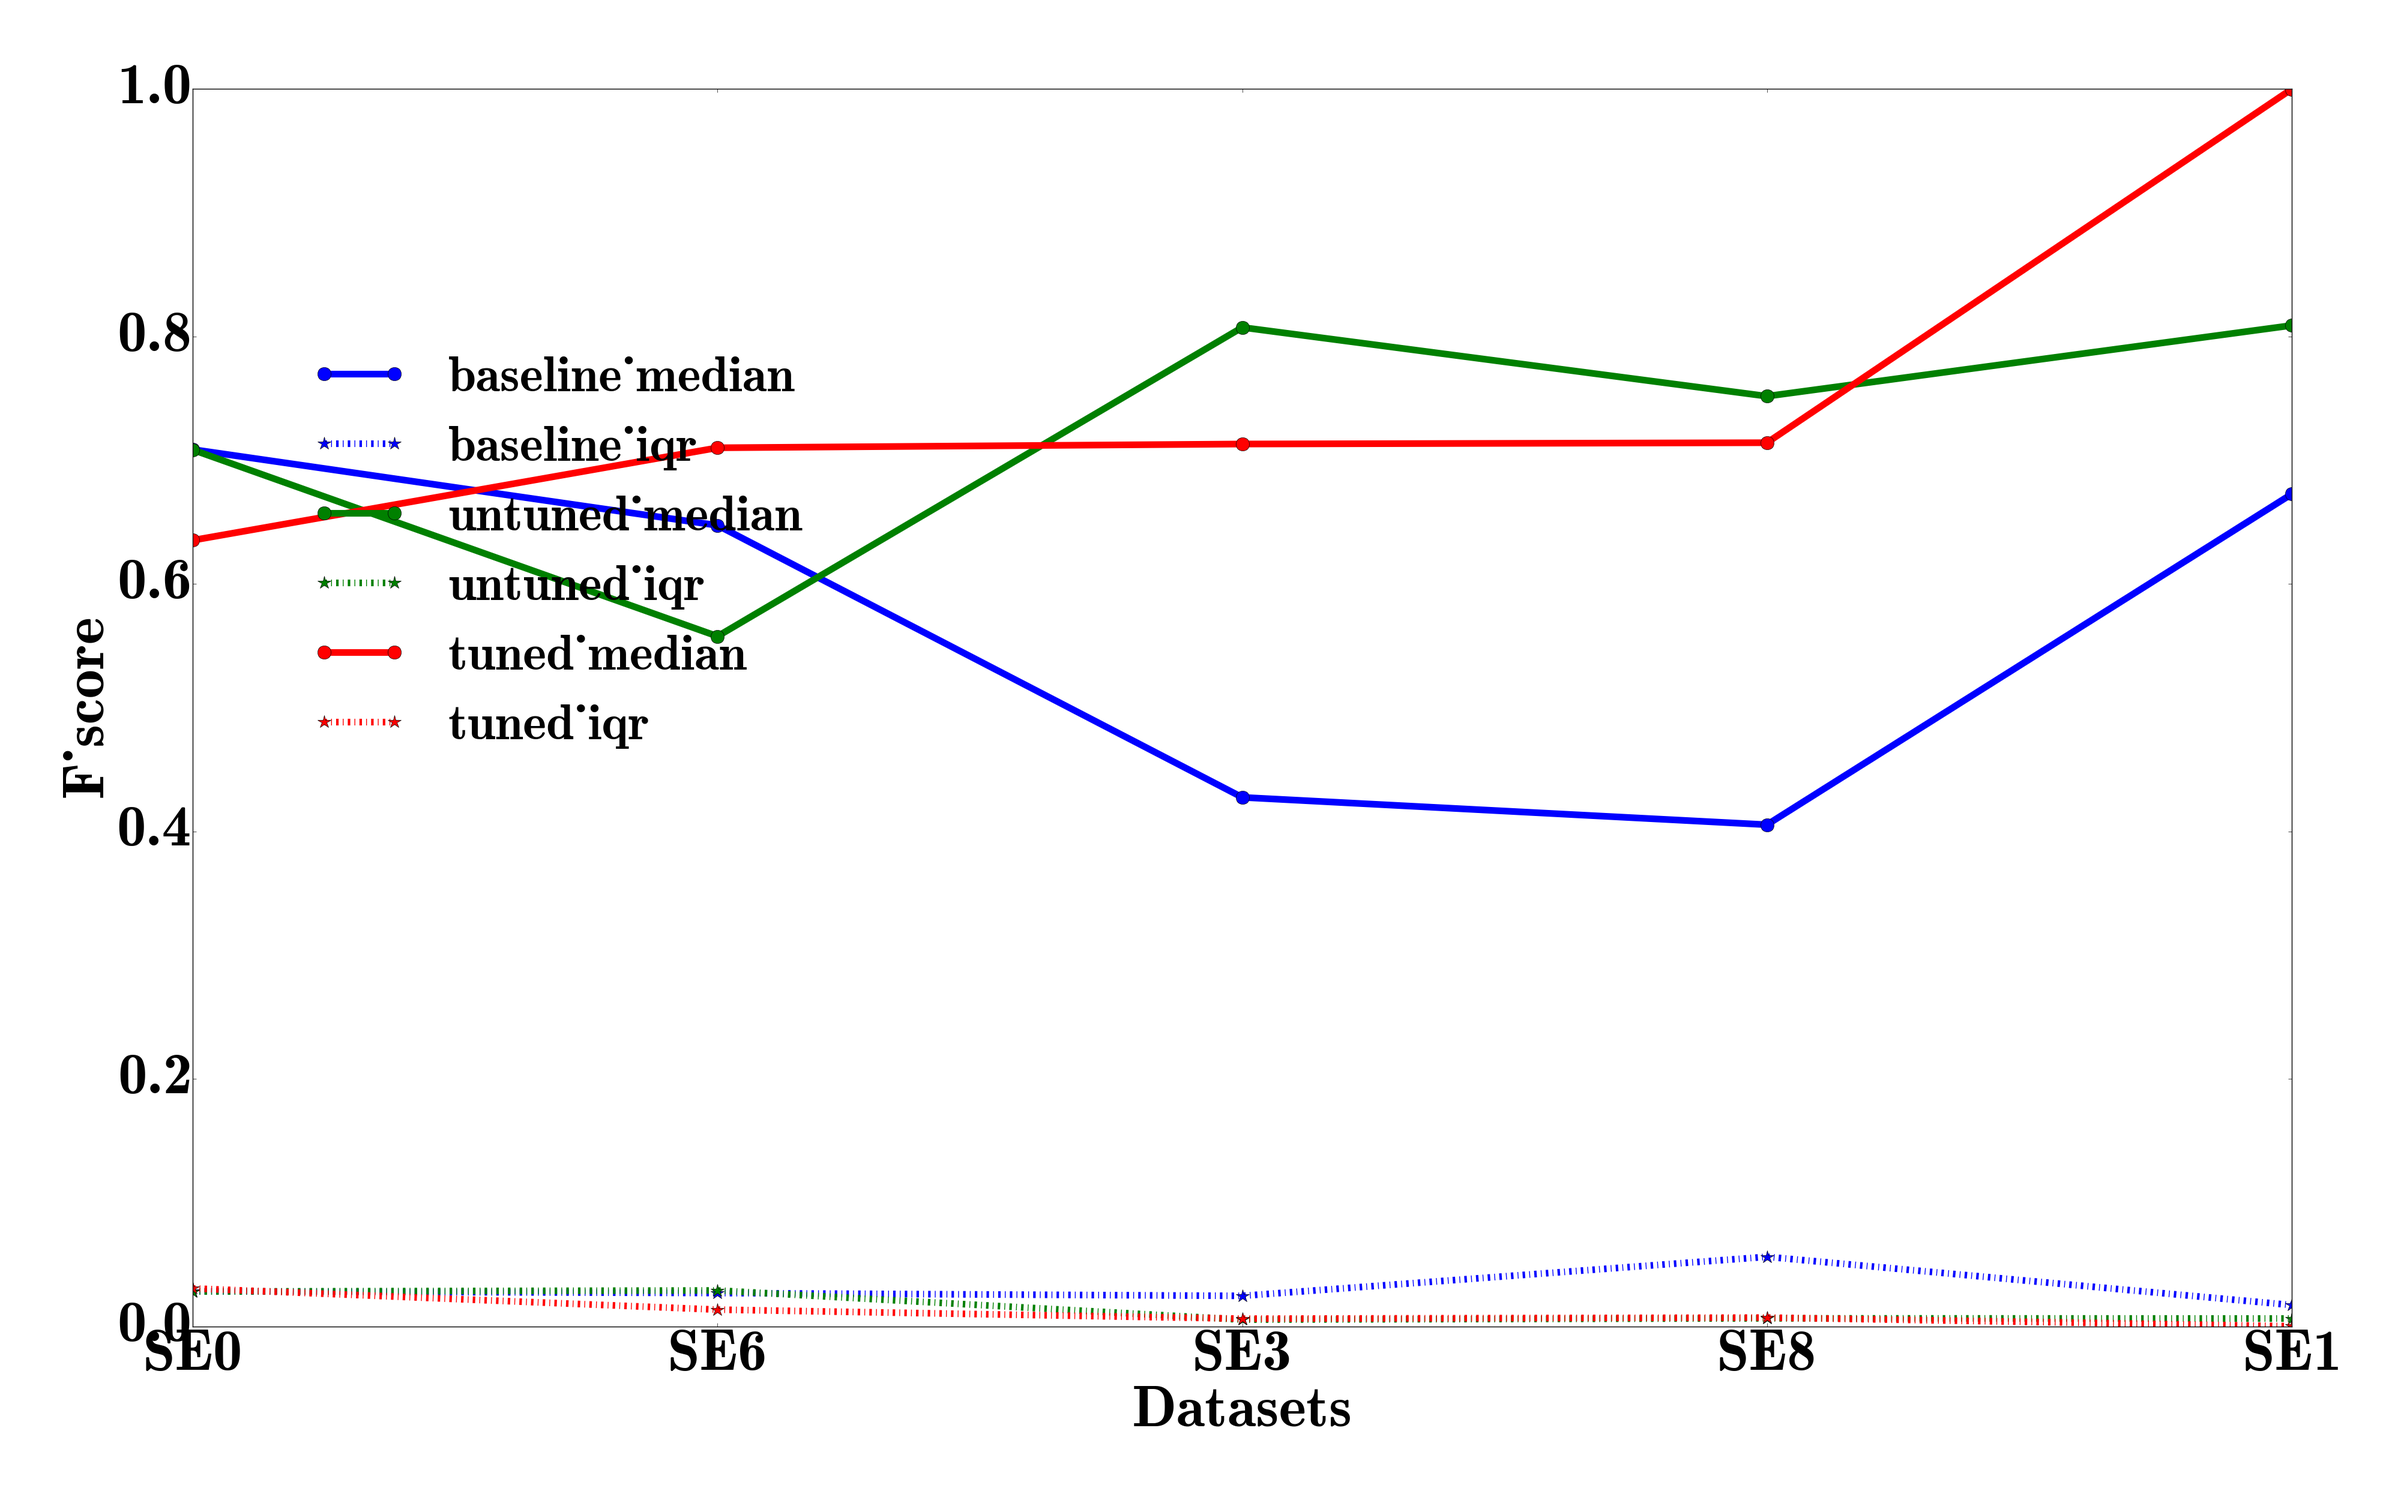
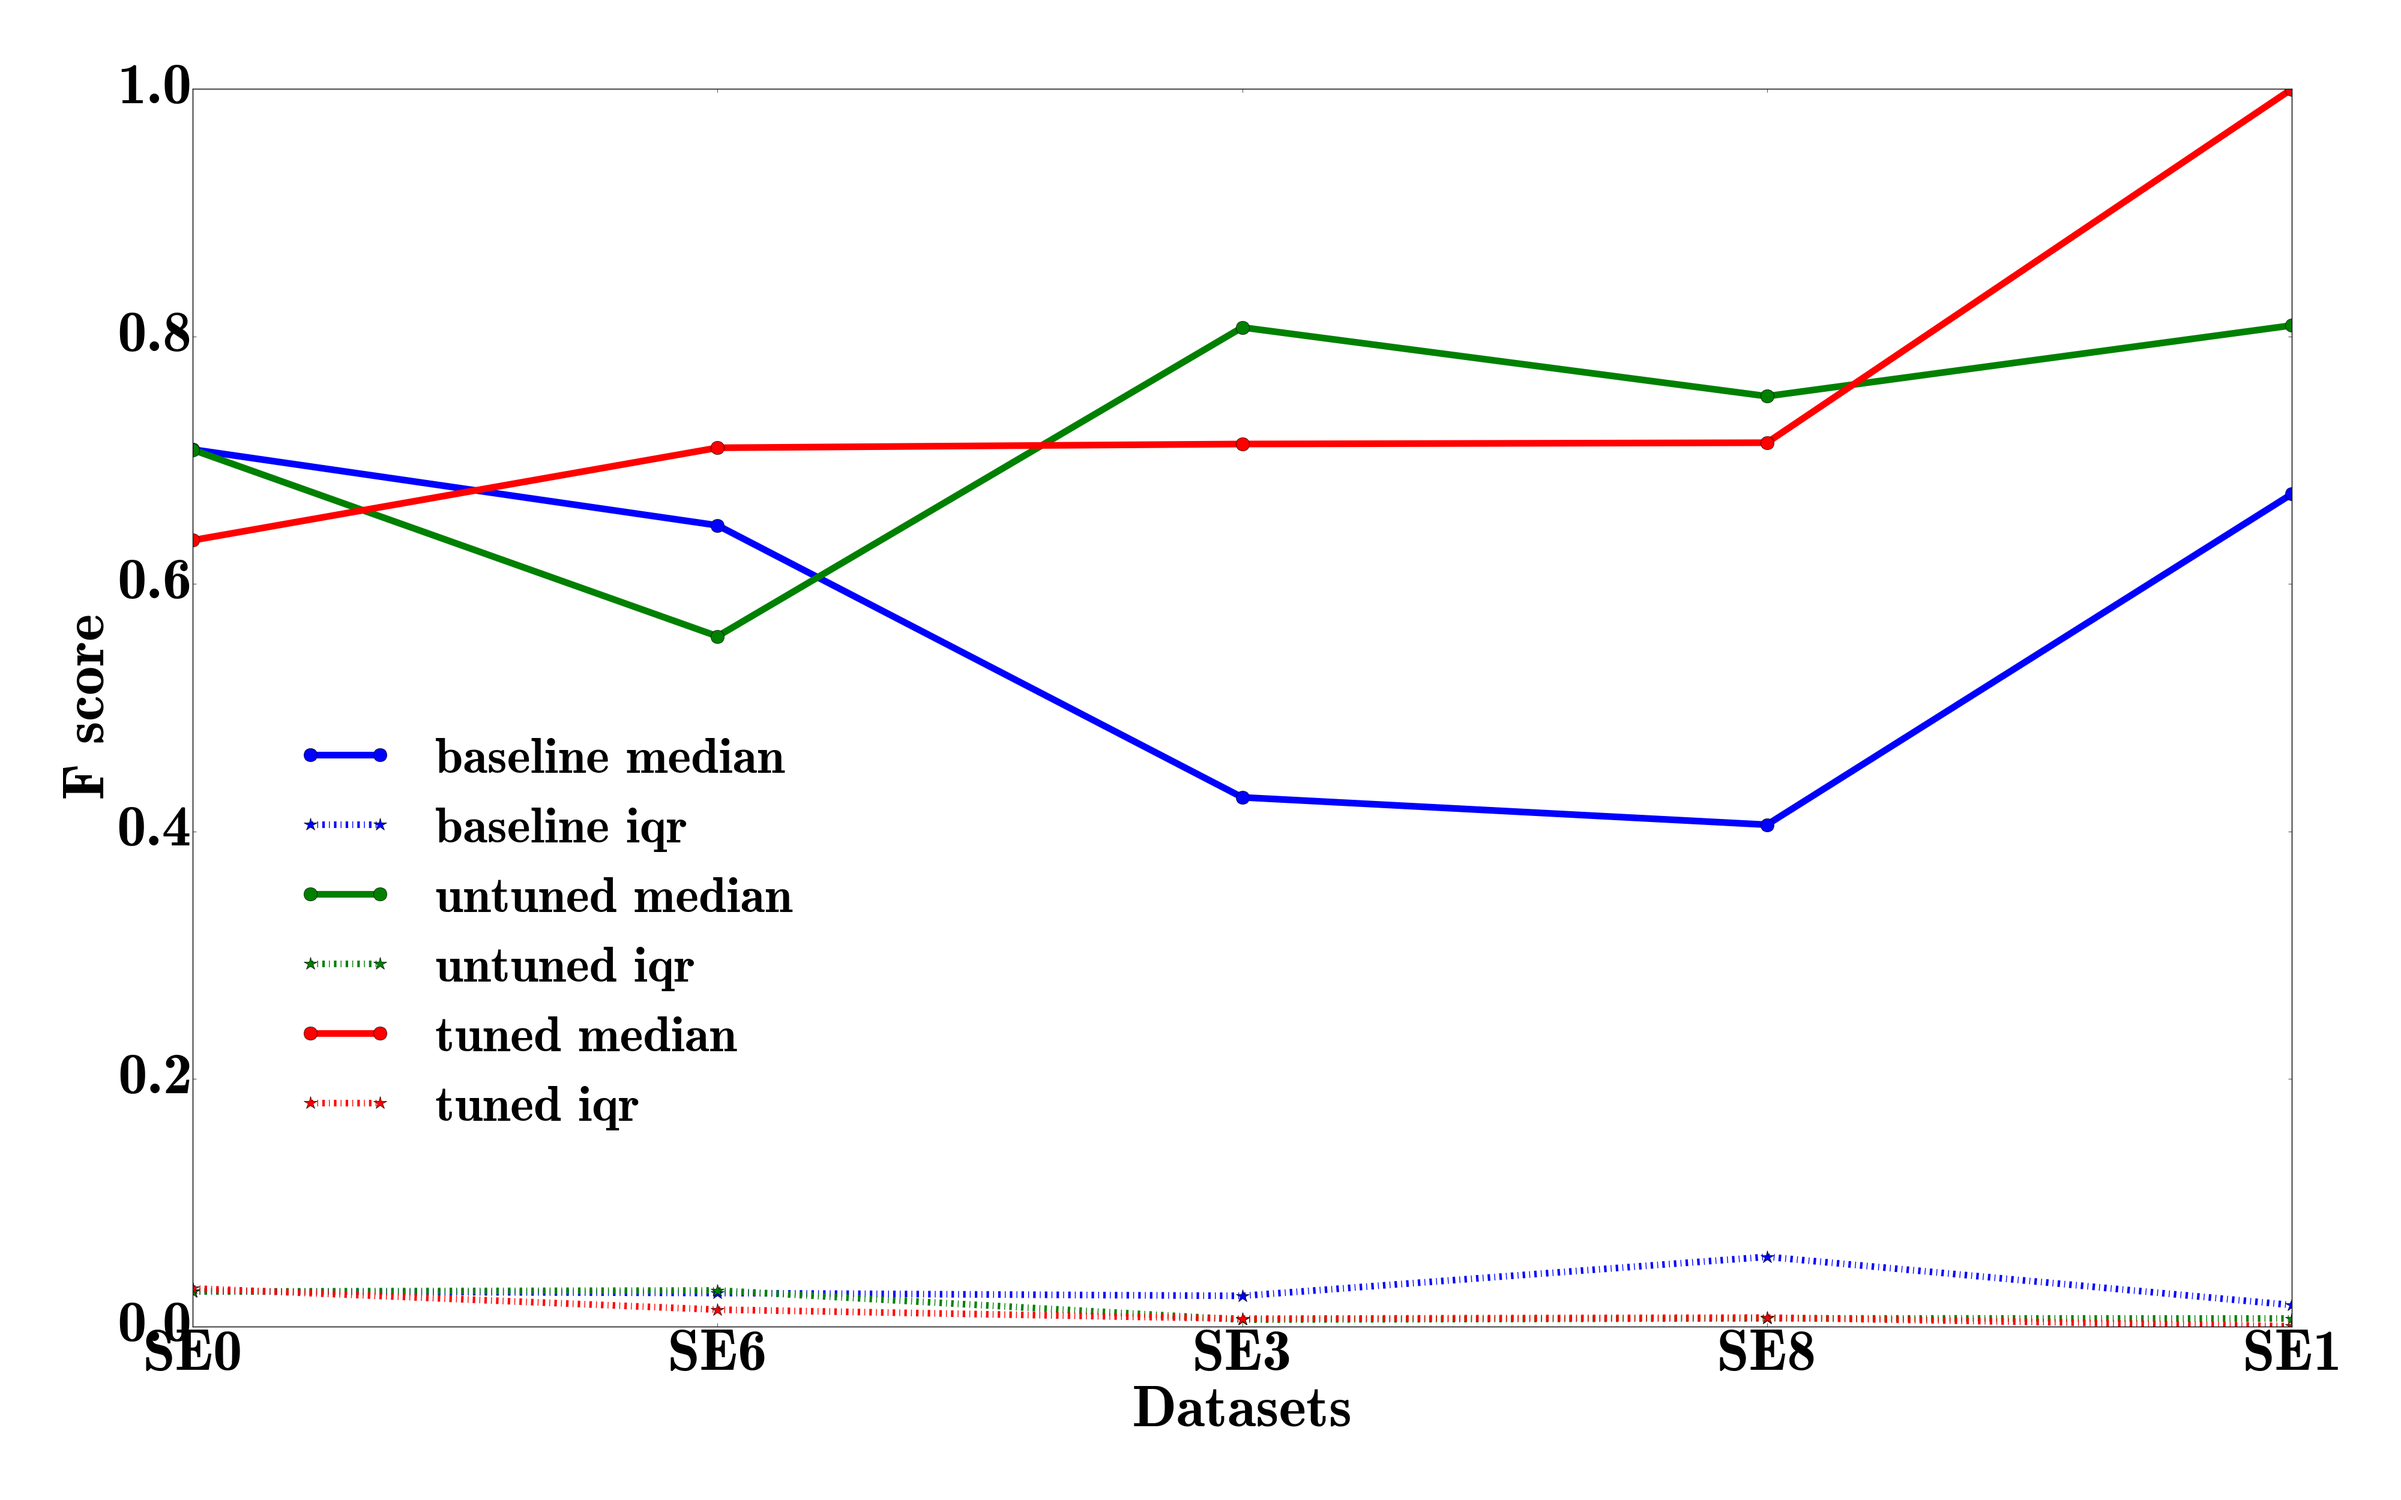
save

diff --git a/src/07-21/draw.py b/src/07-21/draw.py
@@ -63,14 +63,14 @@ if __name__ == '__main__':
     #plt.subplot(121)
     results=['baseline','untuned','tuned']
     for res in results:
-        line, = plt.plot(X, median[res], marker='o', markersize=16, label=res+'_median')
-        plt.plot(X, iqr[res], linestyle="-.", color=line.get_color(), marker='*', markersize=16, label=res + '_iqr')
+        line, = plt.plot(X, median[res], marker='o', markersize=16, label=res+' median')
+        plt.plot(X, iqr[res], linestyle="-.", color=line.get_color(), marker='*', markersize=16, label=res + ' iqr')
 
 
     #plt.ylim(-0.1,1.1)
 
     plt.xticks(X, fileB)
-    plt.ylabel("F_score")
+    plt.ylabel("F score")
     plt.xlabel("Datasets")
-    plt.legend(bbox_to_anchor=(0.3, 0.8), loc=1, ncol = 1, borderaxespad=0.)
+    plt.legend(bbox_to_anchor=(0.3, 0.5), loc=1, ncol = 1, borderaxespad=0.2)
     plt.savefig("graph" + ".png")
